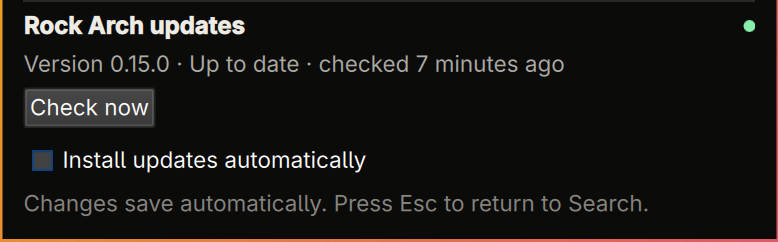
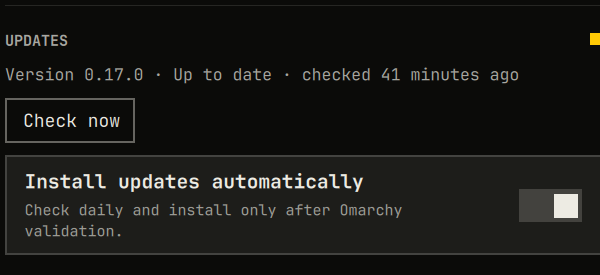
Refresh redesigned Rock Arch screenshots

Changed region(s): [[0.0, 0.0, 1.0, 1.0]]

diff --git a/CHANGELOG.md b/CHANGELOG.md
@@ -24,6 +24,8 @@ repository's default branch is the source used by Omarchy plugin updates.
 - Added a documented Rock Arch design system grounded in the official Omarchy
   shell, Basecamp-owned plugins, desktop HIG guidance, and visible-focus
   requirements.
+- Replaced the public screenshots with privacy-safe captures of the redesigned
+  Search result and Updates surfaces.
 
 ## [0.16.2] - 2026-09-03
 
